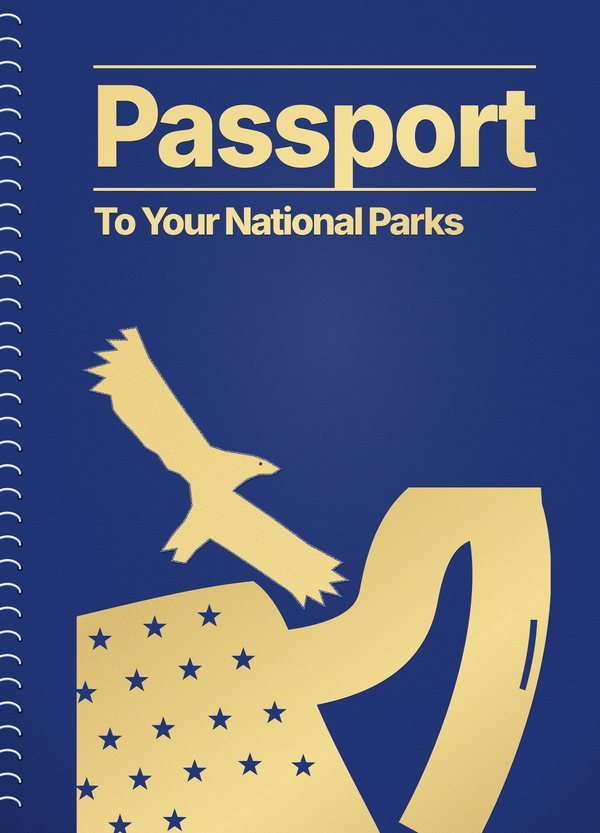
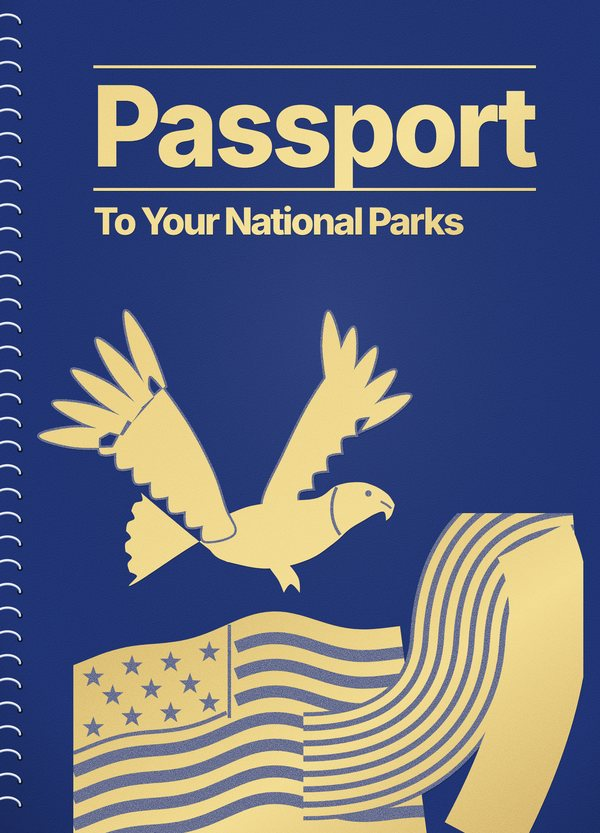
Update passport 2026-10-25 12:11

Changed region(s): [[0.06, 0.3745, 0.99, 1.0]]

diff --git a/src/stamps/eagleflag.py b/src/stamps/eagleflag.py
@@ -1,0 +1,138 @@
+"""Original vector bald eagle + waving American flag/banner for the cover (flat gold foil)."""
+import math
+NAVY2 = '#22377a'
+
+def smooth(pts, closed=True):
+    """Catmull-Rom -> cubic bezier path through points. Points tagged with 'c' (corner) stay sharp."""
+    n = len(pts); P = [(p[0], p[1]) for p in pts]; d = f'M{P[0][0]:.1f},{P[0][1]:.1f}'
+    for i in range(n if closed else n - 1):
+        p0, p1, p2, p3 = P[(i-1) % n], P[i], P[(i+1) % n], P[(i+2) % n]
+        t = .18
+        c1 = (p1[0] + (p2[0]-p0[0])*t, p1[1] + (p2[1]-p0[1])*t) if len(pts[i]) < 3 else p1
+        c2 = (p2[0] - (p3[0]-p1[0])*t, p2[1] - (p3[1]-p1[1])*t) if len(pts[(i+1) % n]) < 3 else p2
+        d += f' C{c1[0]:.1f},{c1[1]:.1f} {c2[0]:.1f},{c2[1]:.1f} {p2[0]:.1f},{p2[1]:.1f}'
+    return d + (' Z' if closed else '')
+
+def rot(x, y, a):
+    c, s = math.cos(a), math.sin(a); return x*c - y*s, x*s + y*c
+
+def wing(sx, sy, ang, L, Wd, nf=5, spread=38, flen=.34, sec=9):
+    """Wing from shoulder (sx,sy) pointing at angle ang (deg, 0=right, -90=up). Returns point list.
+    Leading edge, splayed primary fingers, scalloped trailing edge."""
+    a = math.radians(ang)
+    def T(u, v):  # u along wing, v perpendicular (+v = leading side)
+        x, y = rot(u, -v, a); return (sx + x, sy + y)
+    pts = [T(0, Wd*.5), T(L*.25, Wd*.62), T(L*.5, Wd*.58), T(L*.68, Wd*.5)]  # leading edge (arm, wrist bulge)
+    hand = L*.7
+    # fingers: fan from leading to trailing
+    for k in range(nf):
+        f = k / (nf - 1); fa = math.radians(spread*(f - .2))  # fan angle relative to wing axis
+        base_v = Wd*(.4 - .85*f)
+        bl = T(hand + L*.02, base_v + Wd*.075); br = T(hand + L*.02, base_v - Wd*.075)
+        fl = L*flen*(1 - .25*abs(f - .3))
+        tipu, tipv = rot(fl, 0, -fa)
+        tip = T(hand + L*.02 + tipu, base_v - tipv)
+        mid1 = T(hand + L*.02 + tipu*.6, base_v - tipv*.6 + Wd*.045)
+        mid2 = T(hand + L*.02 + tipu*.6, base_v - tipv*.6 - Wd*.045)
+        pts += [bl + ('c',), mid1, tip, mid2, br + ('c',)]
+    # trailing edge back to body with secondary feather scallops
+    for k in range(sec):
+        f = k / sec; u = hand*(1 - f); v = -Wd*(.55 + .12*math.sin(math.pi*f))
+        pts += [T(u, v - Wd*.1), T(u - hand/sec*.5, v) + ('c',)]
+    pts.append(T(0, -Wd*.45))
+    return pts
+
+def fingers(b0, b1, a0, a1, n, L0, L1, w):
+    """Splayed primary feathers along hand base b0->b1; angles a0->a1 (deg); returns point list b0 ... b1."""
+    pts = []
+    for k in range(n):
+        f = k / (n - 1); bx = b0[0] + (b1[0]-b0[0])*f; by = b0[1] + (b1[1]-b0[1])*f
+        a = math.radians(a0 + (a1-a0)*f); L = L0 + (L1-L0)*f
+        ux, uy = math.cos(a), math.sin(a); px, py = -uy, ux
+        bx -= ux*16; by -= uy*16; L += 16
+        pts += [(bx - px*w/2, by - py*w/2, 'c'), (bx + ux*L*.55 - px*w*.55, by + uy*L*.55 - py*w*.55),
+                (bx + ux*L, by + uy*L), (bx + ux*L*.55 + px*w*.55, by + uy*L*.55 + py*w*.55), (bx + px*w/2, by + py*w/2, 'c')]
+    return pts
+
+def scallop(a, b, n, depth):
+    pts = []
+    for k in range(n):
+        f0, f1 = k/n, (k+.5)/n
+        x0, y0 = a[0] + (b[0]-a[0])*f0, a[1] + (b[1]-a[1])*f0
+        xm, ym = a[0] + (b[0]-a[0])*f1, a[1] + (b[1]-a[1])*f1
+        dx, dy = b[0]-a[0], b[1]-a[1]; l = math.hypot(dx, dy); nx, ny = dy/l, -dx/l
+        pts += [(x0, y0, 'c'), (xm - nx*depth, ym - ny*depth)]
+    return pts
+
+def eagle(ox, oy, s):
+    """Bald eagle flying right, wings raised in a V, splayed primaries, hooked beak, fanned tail. Local ~0..400."""
+    near = ([(195, 222), (180, 178), (150, 122), (112, 72)]
+            + fingers((112, 72), (52, 142), -112, -178, 5, 80, 68, 20)
+            + scallop((52, 142), (190, 258), 7, 12) + [(205, 250)])
+    far = ([(238, 215), (262, 160), (290, 104), (318, 62)]
+           + fingers((318, 62), (360, 118), -95, -28, 5, 64, 52, 18)
+           + scallop((360, 118), (262, 240), 6, 10) + [(250, 238)])
+    body = [(175, 246), (215, 222), (262, 214), (300, 210), (322, 196), (346, 192), (364, 196), (380, 206),
+            (388, 218, 'c'), (384, 230), (378, 236, 'c'), (376, 226), (366, 228), (352, 236), (336, 246),
+            (318, 262), (290, 280), (250, 290), (212, 286), (182, 274)]
+    tail = [(186, 250)]
+    for k in range(5):
+        a = math.radians(158 + k*13); r = 104
+        cx, cy = 186 + r*math.cos(a), 262 + r*math.sin(a)
+        tail += [(cx + 7*math.sin(a), cy - 7*math.cos(a)), (cx - 6*math.cos(a), cy - 6*math.sin(a)), (cx - 7*math.sin(a), cy + 7*math.cos(a), 'c')]
+    tail += [(196, 282)]
+    talon = [(244, 284), (256, 304), (262, 318, 'c'), (270, 308), (280, 318, 'c'), (278, 300), (262, 282)]
+    return ''.join([f'<g transform="translate({ox},{oy}) scale({s})">',
+         f'<path d="{smooth(far)}" stroke="{NAVY2}" stroke-width="5" paint-order="stroke"/>',
+         f'<path d="{smooth(tail)}"/><path d="{smooth(talon)}"/><path d="{smooth(body)}"/>',
+         f'<path d="{smooth(near)}" stroke="{NAVY2}" stroke-width="5" paint-order="stroke"/>',
+         f'<path d="M322,198 C314,214 314,236 326,252" fill="none" stroke="{NAVY2}" stroke-width="3.5"/>',
+         f'<circle cx="358" cy="205" r="3.6" fill="{NAVY2}"/>',
+         f'<path d="M372,214 C376,216 380,218 384,222" fill="none" stroke="{NAVY2}" stroke-width="2.4"/>', '</g>'])
+
+def star(cx, cy, r):
+    pts = []
+    for k in range(10):
+        a = math.radians(-90 + k*36); rr = r if k % 2 == 0 else r*.4
+        pts.append(f'{cx + rr*math.cos(a):.1f},{cy + rr*math.sin(a):.1f}')
+    return f'<polygon points="{" ".join(pts)}"/>'
+
+def wave(x, y0):  # fabric ripple displacement
+    return y0 + 22*math.sin(x/95 + .6) + 9*math.sin(x/37) - (x - 110)*.09
+
+def flag(x0=110, x1=600, top=975, H=1250):
+    """Waving flag: canton with stars, navy gap stripes, rippled; right side flows into banner."""
+    out = []
+    xs = list(range(x0, x1 + 1, 10))
+    topline = [(x, wave(x, top)) for x in xs]
+    shape = 'M' + ' L'.join(f'{x:.0f},{y:.1f}' for x, y in topline) + f' L{x1+40},{H} L{x0},{H} Z'
+    out.append(f'<clipPath id="flagclip"><path d="{shape}"/></clipPath>')
+    out.append(f'<path d="{shape}"/>')
+    out.append(f'<g clip-path="url(#flagclip)" fill="none" stroke="{NAVY2}" stroke-width="18">')
+    sh = 40  # stripe pitch
+    canton_w, canton_rows = 230, 3
+    for i in range(1, 8):
+        y = top + i*sh
+        xa = x0 + canton_w + 14 if i <= canton_rows else x0
+        out.append('<polyline points="' + ' '.join(f'{x},{wave(x, y):.1f}' for x in range(xa, x1 + 60, 10)) + '"/>')
+    # canton edge
+    out.append('<polyline stroke-width="5" points="' + ' '.join(f'{x0+canton_w+4+ (wave(x0+canton_w, top+k*10)-top-k*10)*0:.0f},{wave(x0+canton_w, top+k*10)+0:.1f}' for k in range(0, int(canton_rows*sh/10)+3)) + '"/>')
+    out.append(f'<polyline stroke-width="6" points="' + ' '.join(f'{x},{wave(x, top+canton_rows*sh+12):.1f}' for x in range(x0, x0+canton_w+10, 10)) + '"/>')
+    out.append('</g>')
+    out.append(f'<g fill="{NAVY2}">')
+    for r in range(3):
+        for c in range(4 if r % 2 == 0 else 3):
+            x = x0 + 30 + c*58 + (29 if r % 2 else 0); y = wave(x, top + 30 + r*38)
+            out.append(star(x, y, 17))
+    out.append('</g>')
+    return ''.join(out)
+
+def banner():
+    """Banner rising to the right out of the flag, with concentric stripes so it reads as the flag continuing."""
+    d = 'M455,1150 C620,1150 690,1060 696,960 C702,860 740,790 860,780'
+    s = [f'<path d="{d}" fill="none" stroke="{NAVY2}" stroke-width="162"/>', f'<path d="{d}" fill="none" stroke="url(#gold)" stroke-width="150"/>']
+    for w, c in [(124, NAVY2), (106, 'url(#gold)'), (78, NAVY2), (60, 'url(#gold)'), (32, NAVY2), (14, 'url(#gold)')]:
+        s.append(f'<path d="{d}" fill="none" stroke="{c}" stroke-width="{w}"/>')
+    d2 = 'M800,810 C850,910 820,1075 720,1262'
+    s.append(f'<path d="{d2}" fill="none" stroke="url(#gold)" stroke-width="120"/>')
+    return ''.join(s)

diff --git a/src/stamps/cover2.py b/src/stamps/cover2.py
@@ -53,24 +53,9 @@ def star(cx, cy, r):
 EAGLE = 'M100,92 L70,50 L50,20 L40,-4 L28,-2 L34,6 L18,6 L26,14 L8,16 L20,24 L0,30 L16,36 L4,46 L20,50 L22,62 L30,72 L38,80 L48,92 L58,98 L66,110 L76,114 L84,122 L86,140 L80,152 L70,164 L62,176 L74,174 L70,184 L80,186 L88,176 L100,166 L116,176 L140,192 L166,210 L176,222 L178,212 L192,220 L188,208 L204,212 L196,202 L210,200 L198,192 L206,186 L180,172 L150,150 L118,128 L122,124 L130,118 L140,114 L150,114 L156,110 L146,104 L136,100 L124,98 L112,96 Z'
 
 def art():
-    """Flag (lower-left) flowing into a ribbon road that sweeps up and right then down off the bottom; eagle above."""
-    flag_top = 'M118,1000 C210,975 300,962 420,972'
-    s = ['<g fill="url(#gold)" filter="url(#foilgrain)">']
-    # ribbon / road (drawn first, flag overlaps its start)
-    s.append('<path d="M360,1010 C520,1005 585,965 598,895 C612,815 640,760 715,748 L812,742" fill="none" stroke="url(#gold)" stroke-width="118"/>'
-             '<path d="M752,760 C790,860 760,1060 650,1262" fill="none" stroke="url(#gold)" stroke-width="118"/>')
-    # flag body with wavy top and curved right edge flowing off the bottom
-    s.append('<path d="M115,925 C220,900 300,880 380,872 C420,900 440,960 460,1020 C490,1100 530,1170 570,1250 L115,1250 Z"/>')
-    s.append('</g>')
-    # navy cut-out stars on the flag
-    s.append(f'<g fill="{NAVY2}">' + ''.join(star(x, y, 19) for x, y in
-             [(150, 960), (232, 942), (314, 925), (128, 1040), (205, 1022), (285, 1005), (365, 990), (165, 1110), (245, 1094), (330, 1080), (412, 1070), (130, 1185), (210, 1170), (292, 1158), (375, 1148), (455, 1150), (180, 1240), (262, 1232)]) + '</g>')
-    # slit in the descending ribbon (as in the classic)
-    s.append(f'<path d="M806,930 C804,968 798,1000 788,1036 L779,1033 C788,998 794,966 796,930 Z" fill="{NAVY2}"/>')
-    # eagle: wings raised, gliding right/down, over the ribbon
-    s.append(f'<g fill="url(#gold)" filter="url(#foilgrain)" transform="translate(130,500) scale(1.85)"><path d="{EAGLE}" stroke="{NAVY2}" stroke-width="2.6" paint-order="stroke"/></g>')
-    s.append(f'<circle cx="{130+141*1.85:.1f}" cy="{500+106*1.85:.1f}" r="2.4" fill="{NAVY2}"/>')
-    return ''.join(s)
+    import eagleflag as ef
+    return ('<g fill="url(#gold)" filter="url(#foilgrain)">' + ef.flag() + ef.banner() + '</g>'
+            + '<g fill="url(#gold)" filter="url(#foilgrain)">' + ef.eagle(80, 470, 1.32) + '</g>')
 
 def title():
     return (f'<g fill="url(#gold)" filter="url(#foilgrain)">'
